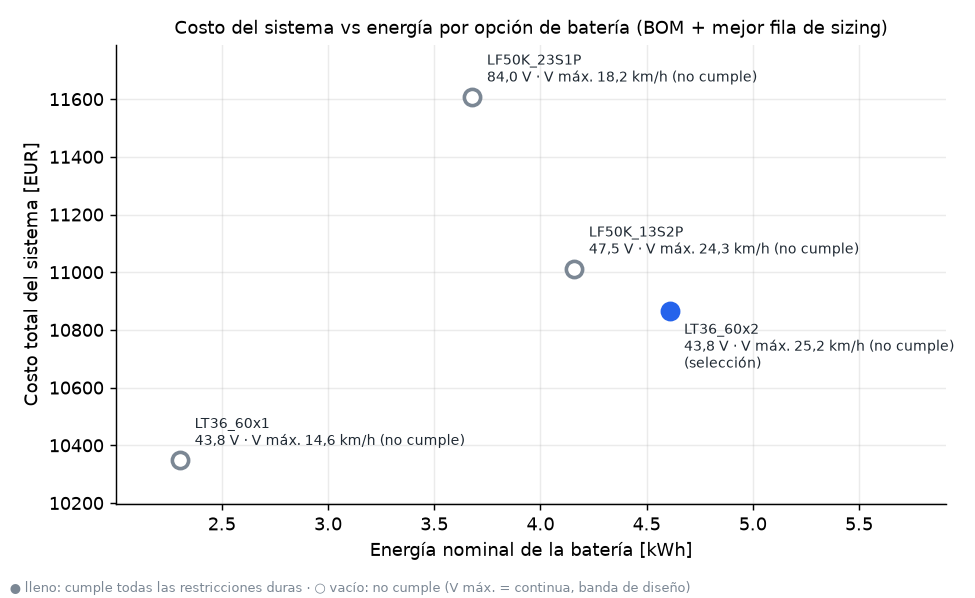
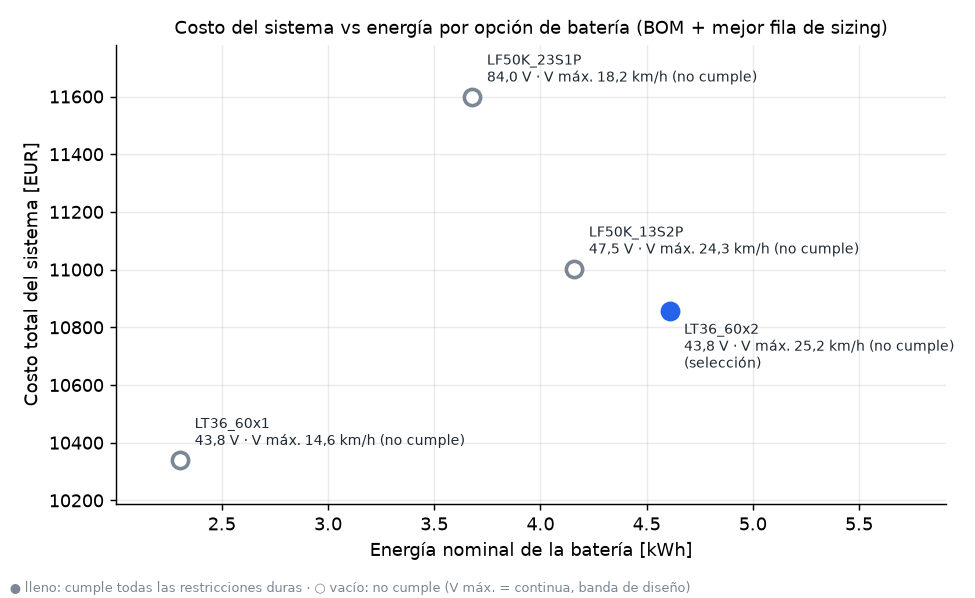
BOM tras el CAD de la auditoría (Pass 3 r1): 7204 BECBP recotizado, semipasadores (3 juegos × 2), M5 de la brida de tobera y del estator con arandelas bonded, ISO 7093 + 4 pasadores del pórtico, 2 arandelas 20×30, O-ring radial en la espiga de la tobera, aislación PTFE de la rejilla, textos de servi
Claude-Session: https://claude.ai/code/session_01NXXpTqtVV1Ju7qMEDzU6oG

diff --git a/README.md b/README.md
@@ -10,7 +10,7 @@
 
 1. **Qué es:** el waterjet que pidió Jorge, rediseñado para que funcione: toma enrasada **entera a proa del impulsor** (su comentario: la rejilla del plano estaba detrás), rampa de 27°, impulsor inox Ø<!--V:sizing.selection.D_imp_mm:.0f-->132<!--/V--> de 5 álabes directo a un motor refrigerado por agua, estator con buje de agua, tobera Ø<!--V:sizing.selection.D_noz_mm:.0f-->87<!--/V-->, boquilla ±25° y bucket de reversa obligatorio. 12S / 38,4 V (< 50 V CC).
 2. **Prestaciones (modelo, sin validar en agua):** margen en la joroba <!--V:sizing.performance.hump_margin_min:.0%-->3%<!--/V--> con la banda alta de resistencia (se piden ≥ 10 %: **no cumple**; <!--V:sizing.vmax_band.nominal.hump_margin:.0%-->15%<!--/V--> con la nominal; 02 §3.2), 0 a planeo en <!--V:sizing.performance.t_to_plane_s:.0f-->14<!--/V--> s; **V máx. sostenida <!--V:sizing.performance.vmax_cont_kmh:.1f-->25.0<!--/V--> km/h** sin base validada hasta T4 (banda <!--V:sizing.vmax_band.high.vmax_cont_kmh:.0f-->18<!--/V-->–<!--V:sizing.vmax_band.low.vmax_cont_kmh:.0f-->29<!--/V--> km/h; objetivo 30; ~<!--V:sizing.performance.vmax_peak_kmh:.0f-->29<!--/V--> km/h por ratos); <!--V:sizing.energy.t_top_min:.0f-->37<!--/V--> min a fondo o <!--V:sizing.energy.t_legal_h:.1f-->2.5<!--/V--> h a 5 kn; empuje a punto fijo <!--V:sizing.performance.bollard_N:.0f-->765<!--/V--> N.
-3. **Recomendación:** pedir cotización de la **AWT JT132** (la bomba de la foto de Jorge) con este mismo tren eléctrico: gana la matriz de arquitectura en el <!--V:arch.mc_win_frac.B:.0%-->73%<!--/V--> del Monte Carlo, da <!--V:cmp.B_vmax_kmh:.1f-->27.0<!--/V--> km/h y baja el costo a ~<!--V:cmp.B_total_eur_min:.0f-->7003<!--/V-->–<!--V:cmp.B_total_eur_max:.0f-->7567<!--/V--> € contra <!--V:bom.total_eur:.0f-->10865<!--/V--> € de construir la bomba propia (<!--V:bom.verified_frac_of_subtotal:.0%-->35%<!--/V--> del subtotal con precio verificado; el resto son servicios de taller a cotizar).
+3. **Recomendación:** pedir cotización de la **AWT JT132** (la bomba de la foto de Jorge) con este mismo tren eléctrico: gana la matriz de arquitectura en el <!--V:arch.mc_win_frac.B:.0%-->73%<!--/V--> del Monte Carlo, da <!--V:cmp.B_vmax_kmh:.1f-->27.0<!--/V--> km/h y baja el costo a ~<!--V:cmp.B_total_eur_min:.0f-->7026<!--/V-->–<!--V:cmp.B_total_eur_max:.0f-->7589<!--/V--> € contra <!--V:bom.total_eur:.0f-->10856<!--/V--> € de construir la bomba propia (<!--V:bom.verified_frac_of_subtotal:.0%-->34%<!--/V--> del subtotal con precio verificado; el resto son servicios de taller a cotizar).
 4. **Riesgo n.º 1 — el casco, no la propulsión:** con 0,80 m de manga y el piloto sentado alto, GM ≈ <!--V:sizing.hydrostatics.GM_m:.3f-->0.008<!--/V--> m y capacidad (33 CFR 183.33) de <!--V:sizing.capacity.persons_gear_kg:.0f-->46<!--/V--> kg: **puede volcar**. Ensayo de escora antes de motorizar; probablemente haya que ensanchar el casco o bajar el asiento.
 5. **Legal (Dinamarca):** ≤ 5 kn a < 300 m de la costa (perfil "costa" por defecto en el firmware), 4 kn en Als Sund; no es speedbåd (< 19 kW) y probablemente no es "vandscooter" (piloto dentro del casco): confirmar por escrito (research/R13 §8).
 6. **Honestidad:** todo está verificado *en software* (CAD de <!--V:manifest.totals.n_parts:d-->65<!--/V--> piezas sin interferencias en <!--V:verify.n_pair_checks:d-->13046<!--/V--> pares×estados, FS ≥ 2 metal / ≥ 3 PETG, tests). **Nada está probado físicamente**; los primeros pasos están en [PENDIENTES_GASPAR.md](PENDIENTES_GASPAR.md).
@@ -21,8 +21,8 @@
 
 | Opción | Costo total del sistema | V máx. sostenida | Unidad de jet | Comentario |
 |---|---|---|---|---|
-| **A — bomba propia (este paquete)** | <!--V:bom.total_eur:.0f-->10865<!--/V--> € ≈ <!--V:bom.total_dkk:.0f-->81219<!--/V--> DKK [CALCULADO: bom.py] | <!--V:cmp.A_vmax_kmh:.1f-->25.0<!--/V--> km/h | <!--V:cmp.A_jet_mass_kg:.1f-->20.1<!--/V--> kg | Impulsor y estator CNC 5 ejes + soldaduras: el 42 % del costo es taller sin cotizar |
-| **B — AWT JT132 + este tren** | <!--V:cmp.B_total_eur_min:.0f-->7003<!--/V-->–<!--V:cmp.B_total_eur_max:.0f-->7567<!--/V--> € [CALCULADO; precio de la JT132 ESTIMADO] | <!--V:cmp.B_vmax_kmh:.1f-->27.0<!--/V--> km/h | 12 kg [VERIFICADO: R11 §4] | Trae toma, dirección y reversa; pedir brida, altura del eje y curva de la bomba |
+| **A — bomba propia (este paquete)** | <!--V:bom.total_eur:.0f-->10856<!--/V--> € ≈ <!--V:bom.total_dkk:.0f-->81151<!--/V--> DKK [CALCULADO: bom.py] | <!--V:cmp.A_vmax_kmh:.1f-->25.0<!--/V--> km/h | <!--V:cmp.A_jet_mass_kg:.1f-->20.1<!--/V--> kg | Impulsor y estator CNC 5 ejes + soldaduras: el 42 % del costo es taller sin cotizar |
+| **B — AWT JT132 + este tren** | <!--V:cmp.B_total_eur_min:.0f-->7026<!--/V-->–<!--V:cmp.B_total_eur_max:.0f-->7589<!--/V--> € [CALCULADO; precio de la JT132 ESTIMADO] | <!--V:cmp.B_vmax_kmh:.1f-->27.0<!--/V--> km/h | 12 kg [VERIFICADO: R11 §4] | Trae toma, dirección y reversa; pedir brida, altura del eje y curva de la bomba |
 | Lampuga Air (jet boat eléctrico comercial de 2,30 m) | no verificado | ≤ 50 km/h [VERIFICADO: R12] | — | Referencia: 10 kW, 3,6 kWh |
 
 Detalle y matriz ponderada: [03_arquitectura.md](03_arquitectura.md).
@@ -37,7 +37,7 @@ Detalle y matriz ponderada: [03_arquitectura.md](03_arquitectura.md).
 | Interferencias: boquilla −25/0/+25° × bucket arriba/abajo, contra bomba, toma, tren y casco de referencia | [VERIFICADO en software] |
 | FS ≥ 3 (impresas) / ≥ 2 (metal) por caso de carga | [CALCULADO] `structural.py` (02 §9); FEA de las piezas críticas en `04_diseno/fea/` |
 | Firmware del acelerador (bucket, perfiles costa/abierto, limpieza de rejilla, kill switch) | [VERIFICADO en software] 69 tests; **sin compilar para AVR** (sin toolchain aquí) |
-| Precios | <!--V:bom.verified_frac_of_subtotal:.0%-->35%<!--/V--> del subtotal verificado (research/R11, R08a/b); servicios de taller [ESTIMADO] |
+| Precios | <!--V:bom.verified_frac_of_subtotal:.0%-->34%<!--/V--> del subtotal verificado (research/R11, R08a/b); servicios de taller [ESTIMADO] |
 | Casco de Jorge | **Leído de un plano sin escala única: medir todo** (PENDIENTES P0) |
 | Estabilidad, estanqueidad, pruebas en agua | **[NO EJECUTADO] — pendiente físico** |
 

diff --git a/06_ensamblaje_y_pruebas.md b/06_ensamblaje_y_pruebas.md
@@ -17,7 +17,7 @@ Etiquetas: [VERIFICADO: fuente] · [CALCULADO] · [ESTIMADO: base] · [SUPUESTO]
 
 ## 1. Compras y fabricación por etapa
 
-La lista completa, con proveedor, precio, etiqueta y especificación mínima, está en [`bom.csv`](bom.csv). Total del sistema <!--V:bom.total_eur:.0f-->10865<!--/V--> € ≈ <!--V:bom.total_dkk:.0f-->81219<!--/V--> DKK; con los cambios de casco y el equipo de operación, <!--V:bom.total_with_hull_and_gear_eur:.0f-->11583<!--/V--> € [CALCULADO: `bom.py`]. Regla: **no se compra nada caro antes de cerrar P0** (PENDIENTES_GASPAR).
+La lista completa, con proveedor, precio, etiqueta y especificación mínima, está en [`bom.csv`](bom.csv). Total del sistema <!--V:bom.total_eur:.0f-->10856<!--/V--> € ≈ <!--V:bom.total_dkk:.0f-->81151<!--/V--> DKK; con los cambios de casco y el equipo de operación, <!--V:bom.total_with_hull_and_gear_eur:.0f-->11574<!--/V--> € [CALCULADO: `bom.py`]. Regla: **no se compra nada caro antes de cerrar P0** (PENDIENTES_GASPAR).
 
 | Etapa | Condición para empezar | IDs de `bom.csv` | Monto | Nota |
 |---|---|---|---|---|
@@ -26,7 +26,7 @@ La lista completa, con proveedor, precio, etiqueta y especificación mínima, es
 | E2 — Equipo de operación | Antes de la primera prueba en el agua (T1) | B-PFD, B-CORD, B-PADDLE, B-ANCHOR, B-LIGHT, B-BAILER | <!--V:bom.operation_gear_eur:.0f-->215<!--/V--> € | Va también con la JT132 (opción B) |
 | E3 — Núcleo eléctrico | Respuesta de Maytech (potencia continua, pares de polos) y `run_all.py` en verde | B-MOT, B-ESC, B-BAT, B-CHG | Núcleo: <!--V:bom.core_eur:.0f-->1952<!--/V--> € | Sirve para A y para B (D-05). Medir las baterías recibidas antes de comprar B-BOX |
 | E4 — Potencia, seguridad eléctrica y mando | E3 recibido | B-BOX, B-FUSE, B-FUSEH, B-SW, B-BUS, B-CAB-*, B-TERM*, B-SHRINK*, B-ANDERSON, B-GLAND32, B-RPRE, B-CONT, B-KILL, B-ESTOP, B-CFUSE, B-KCONN, B-MCU, B-DCDC, B-PCB, B-HALL, B-MAG, B-SIGNAL, B-ENCL, B-WIRE, B-CRIMP | — | B-CONT: tensión de bobina y de cierre confirmadas por escrito (README de electrónica §7; bloqueo H-9) |
-| E5 — Servicios de fabricación (solo opción A) | AWT no confirma las 4 condiciones de 03 §3, o la JT132 no entra en el casco | S-CNC-IMP, S-CNC-STAT, S-TURN-HSG, S-TURN-NOZ, S-TURN-TP, S-MILL-STE, S-LASER, S-WELD-INT, S-WELD-AL, S-WELD-316, S-ANOD; materia prima MP-* | Servicios <!--V:bom.services_eur:.0f-->3910<!--/V--> € + materia prima <!--V:bom.raw_material_eur:.0f-->1243<!--/V--> € | Con la JT132 queda solo la placa de adaptación de la toma, el pórtico y el soporte del motor (03 §4) |
+| E5 — Servicios de fabricación (solo opción A) | AWT no confirma las 4 condiciones de 03 §3, o la JT132 no entra en el casco | S-CNC-IMP, S-CNC-STAT, S-TURN-HSG, S-TURN-NOZ, S-TURN-TP, S-MILL-STE, S-LASER, S-WELD-INT, S-WELD-AL, S-WELD-316, S-ANOD; materia prima MP-* | Servicios <!--V:bom.services_eur:.0f-->3910<!--/V--> € + materia prima <!--V:bom.raw_material_eur:.0f-->1227<!--/V--> € | Con la JT132 queda solo la placa de adaptación de la toma, el pórtico y el soporte del motor (03 §4) |
 | E6 — Tren, sellado y corrosión | E5 encargado (o JT132 comprada) | B-SEAL, B-BRG, B-KM4, B-CPL, B-KEY, B-CIRC, B-NUT16, B-LOCTITE, B-HW, B-STUD, B-INS, B-ORING, B-GREASE, B-GASKET, B-GLAND16, B-GLAND20, B-TEFGEL, B-ISOW, B-ANODE, B-TAP | — | Comprar con el eje: el sello y los rodamientos se prueban en el eje terminado |
 | E7 — Refrigeración y mandos | Consola de Jorge medida | B-HOSE, B-BARB, B-HCLAMP, B-STRAIN, B-COOL-THRU; B-HELM, B-M66, B-WHEEL, B-MACH5, B-ROD5, B-ROT8, B-INDEX, B-BOWDEN, B-KNOB | — | Largo del M66, del Mach5 y del Bowden medidos en el bote |
 | E8 — Impresión en PETG | Perfiles y probetas de 05 aprobados | B-PETG → P1-CTL-02, P1-CTL-03, P1-ELE-01, P1-ELE-02, P1-INT-04 | <!--V:manifest.totals.printed_mass_g:.0f-->1020<!--/V--> g, <!--V:manifest.totals.printed_hours:.0f-->57<!--/V--> h | Piezas secas o de baja carga (D-19) |

diff --git a/05_fabricacion.md b/05_fabricacion.md
@@ -11,7 +11,7 @@ Fuentes: research/R05 (PETG, sellado, insertos), R06 §6 y R10b H21 (galvánica)
 ## 0. Resumen
 
 - **El jet es casi todo metal.** De <!--V:manifest.totals.n_parts:-->65<!--/V--> tipos de pieza, solo cinco son impresas en PETG (tapa de inspección P1-INT-04, base y capota del controlador P1-ELE-01/02, caja de palancas P1-CTL-02, soporte del kill switch P1-CTL-03): <!--V:manifest.totals.printed_mass_g:.0f-->1020<!--/V--> g y <!--V:manifest.totals.printed_hours:.0f-->57<!--/V--> h según el manifest (PrusaSlicer da más: §2.6). El resto es Al 5083 cortado a láser y soldado (toma, bucket, placas), Al 6061/6082 y AISI 316L torneado, y **CNC 5 ejes** para impulsor (316L) y estator (6061-T6).
-- **Servicios de fabricación** en la BOM: <!--V:bom.services_eur:.0f-->3910<!--/V--> € (CNC, torneado grande, láser, soldadura, anodizado); materia prima para el torno propio y el taller: <!--V:bom.raw_material_eur:.0f-->1243<!--/V--> €.
+- **Servicios de fabricación** en la BOM: <!--V:bom.services_eur:.0f-->3910<!--/V--> € (CNC, torneado grande, láser, soldadura, anodizado); materia prima para el torno propio y el taller: <!--V:bom.raw_material_eur:.0f-->1227<!--/V--> €.
 - **Torno propio** hasta el Ø que supone la BOM (`inputs.yaml bom.lathe_max_d_mm`, [SUPUESTO]: **medir**); carcasa y tobera fija lo superan y van a taller (§3).
 - **Ensayos:** 4 probetas impresas (P1.1 holguras, P1.4 inserto M5, P1.6 tapa con O-ring y purga a la presión de cierre, P1.7 absorción) y 4 ensayos de taller sin CAD (P1.9 pasador de corte, P1.10 bujes POM en agua, P1.11 hidrostática de la bomba, P1.12 holgura de punta), todos con criterio numérico tomado de los JSON (§7).
 - **Hallazgos para el diseño:** §10.

diff --git a/03_arquitectura.md b/03_arquitectura.md
@@ -85,7 +85,7 @@ Antes de cualquiera de las dos: resolver la estabilidad del casco (§5, riesgo 1
 | S a V máx. (límite 3,5) | <!--V:sizing.performance.top.S:.2f-->3.20<!--/V--> | <!--V:cmp.B_S_top:.2f-->2.72<!--/V--> | [CALCULADO] |
 | P de batería a 5 kn | <!--V:sizing.performance.legal.P_bat:.0f-->1680<!--/V--> W | <!--V:cmp.B_P_bat_legal_W:.0f-->1786<!--/V--> W | [CALCULADO] |
 | Bomba | Impulsor y estator CNC, carcasa y tobera de taller, toma soldada | <!--V:cmp.B_jt132_landed_eur_min:.0f-->1437<!--/V-->–<!--V:cmp.B_jt132_landed_eur_max:.0f-->1549<!--/V--> € puesta en DK (FOB + flete + arancel + IVA) | [CALCULADO con precio ESTIMADO: R11 §4] |
-| Costo del sistema | <!--V:bom.total_eur:.0f-->10865<!--/V--> € (BOM completa) | total de A − piezas del grupo jet + JT132 puesta en DK | [CALCULADO: `bom.py`, `comparacion.py`] |
+| Costo del sistema | <!--V:bom.total_eur:.0f-->10856<!--/V--> € (BOM completa) | total de A − piezas del grupo jet + JT132 puesta en DK | [CALCULADO: `bom.py`, `comparacion.py`] |
 | Núcleo común (motor + controlador + batería + cargador) | <!--V:sizing.selection.cost_core_eur:.0f-->1952<!--/V--> € | ídem | [CALCULADO] |
 
 Las prestaciones de B usan el mismo modelo de `sizing.py` con la geometría verificada de la JT132 (Ø130,

diff --git a/PENDIENTES_GASPAR.md b/PENDIENTES_GASPAR.md
@@ -2,7 +2,7 @@
 
 Cada ítem tiene un **criterio de cierre**. No se pasa al bloque siguiente con uno abierto, salvo que se diga lo contrario. Después de cada medición: cargar el valor en `inputs.yaml` con la etiqueta `[VERIFICADO: medido AAAA-MM-DD]`, correr `python run_all.py` (incluye `verify_parts.py` y `docgen.py`) y mirar qué cambió en `resultados/sizing.json`. Bloqueos que esto destraba: 06 §8.
 
-Valores de referencia del diseño actual [CALCULADO con el casco leído del plano]: masa total <!--V:sizing.masses.total_kg:.0f-->217<!--/V--> kg, calado <!--V:sizing.hydrostatics.draft_m:.3f-->0.285<!--/V--> m, GM <!--V:sizing.hydrostatics.GM_m:.3f-->0.008<!--/V--> m, V máx. sostenida <!--V:sizing.performance.vmax_cont_kmh:.1f-->25.0<!--/V--> km/h, costo total <!--V:bom.total_eur:.0f-->10865<!--/V--> €.
+Valores de referencia del diseño actual [CALCULADO con el casco leído del plano]: masa total <!--V:sizing.masses.total_kg:.0f-->217<!--/V--> kg, calado <!--V:sizing.hydrostatics.draft_m:.3f-->0.285<!--/V--> m, GM <!--V:sizing.hydrostatics.GM_m:.3f-->0.008<!--/V--> m, V máx. sostenida <!--V:sizing.performance.vmax_cont_kmh:.1f-->25.0<!--/V--> km/h, costo total <!--V:bom.total_eur:.0f-->10856<!--/V--> €.
 
 ---
 

diff --git a/07_roadmap_P2.md b/07_roadmap_P2.md
@@ -18,7 +18,7 @@ Etiquetas: [VERIFICADO: fuente] · [CALCULADO] · [ESTIMADO: base] · [SUPUESTO]
 | P de batería a 5 kn / autonomía a 5 kn | <!--V:sizing.performance.legal.P_bat:.0f-->1680<!--/V--> W / <!--V:sizing.energy.t_legal_h:.1f-->2.5<!--/V--> h | [CALCULADO] |
 | Autonomía a V máx. | <!--V:sizing.energy.t_top_min:.0f-->37<!--/V--> min | [CALCULADO] |
 | Limitante a fondo | corriente de batería (<!--V:sizing.electrical.I_bat_limit_A:.0f-->192<!--/V--> A, 80 % del BMS) | [CALCULADO] |
-| Costo del sistema (BOM) | <!--V:bom.total_eur:.0f-->10865<!--/V--> € | [CALCULADO] |
+| Costo del sistema (BOM) | <!--V:bom.total_eur:.0f-->10856<!--/V--> € | [CALCULADO] |
 
 ## 1. Resumen priorizado
 

diff --git a/01_investigacion.md b/01_investigacion.md
@@ -146,7 +146,7 @@ encima de 50 V; el MTI120116 no declara sensor de temperatura (se agrega un NTC)
 AISI 420 se corroen en agua salada y van del lado seco; la JT132 exige confirmar su toma y la altura de su eje
 **antes** de comprarla.
 
-Costo total del paquete actual (BOM): <!--V:bom.total_eur:.0f-->10865<!--/V--> €, de los cuales
+Costo total del paquete actual (BOM): <!--V:bom.total_eur:.0f-->10856<!--/V--> €, de los cuales
 <!--V:bom.services_eur:.0f-->3910<!--/V--> € son servicios de fabricación (CNC, torneado de taller, soldadura) [CALCULADO:
 `bom.py`; ver 03 §3 y 05].
 
